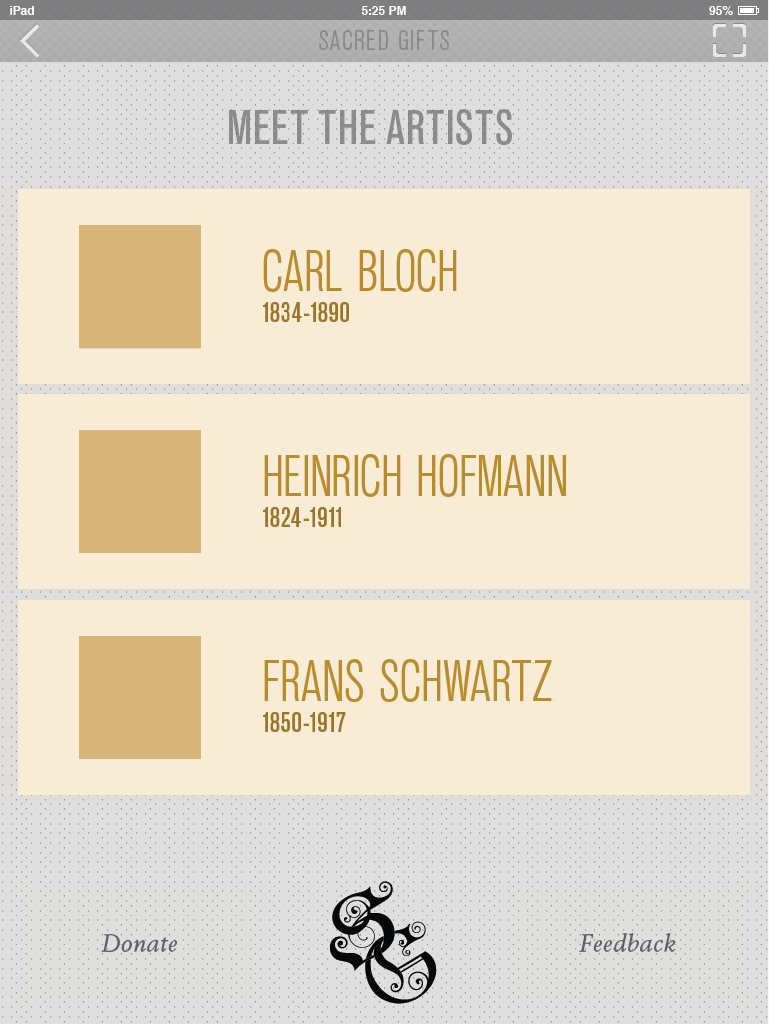
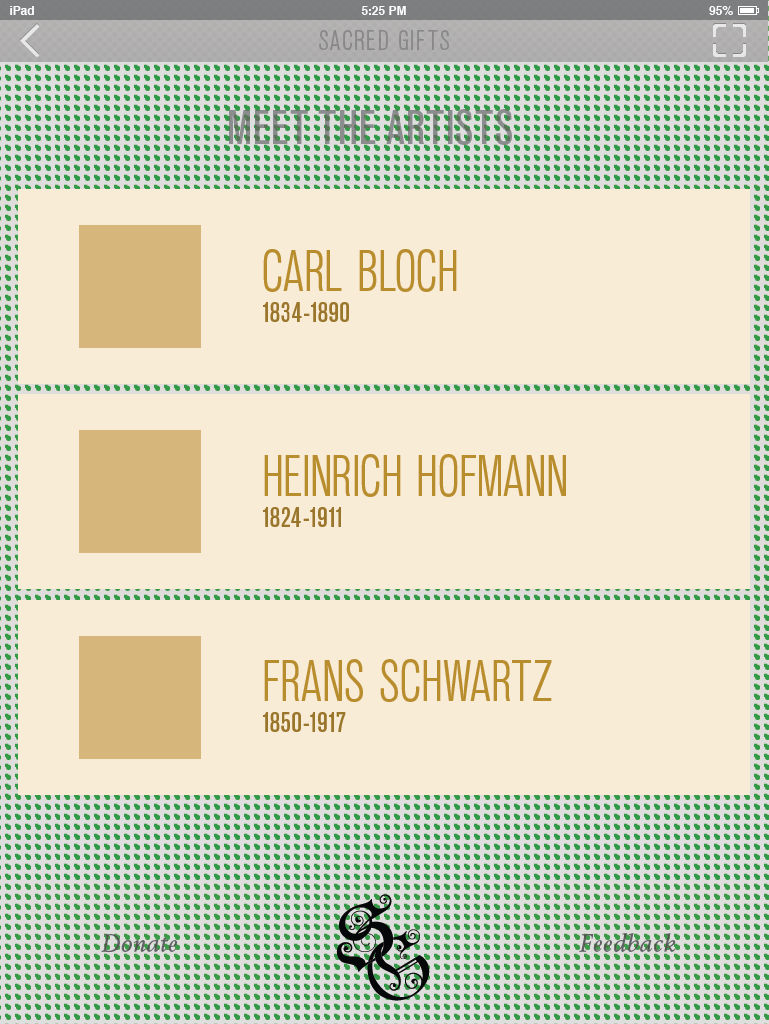
Replaced some navigational MOCKUPS.

diff --git a/SacredGifts/SGViewController.m b/SacredGifts/SGViewController.m
@@ -19,28 +19,9 @@ const NSString* kPaintingNameChristAndTheRichYoungRulerStr = @"christ_and_the_ri
 - (void)viewDidLoad
 {
     [super viewDidLoad];
-	//[self transitionToPainting:kPaintingNameChristAndTheRichYoungRulerStr];
-}
-
--(void)transitionToPainting: (const NSString*)paintingName
-{
-    UIStoryboard* mainStoryBoard = [UIStoryboard storyboardWithName:@"MainStoryboard_iPad" bundle:nil];
-    _paintingViewController = (SGPaintingViewController*)[mainStoryBoard instantiateViewControllerWithIdentifier:@"painting"];
-    [self addChildViewController:_paintingViewController];
-    [self.view addSubview:_paintingViewController.view];
-    
-    NSString *fullPath = [[NSBundle mainBundle] pathForResource:@"paintingConfig" ofType:@"plist" inDirectory:[NSString stringWithFormat: @"PaintingResources/%@", paintingName]];
-    
-    NSMutableDictionary *config = [NSMutableDictionary dictionaryWithContentsOfFile:fullPath];
-    [config setObject:paintingName forKey:@"paintingName"];
-    
-    [_paintingViewController configWithDictionary:(NSDictionary*)config];
-}
-
-- (void)didReceiveMemoryWarning
-{
-    [super didReceiveMemoryWarning];
-    // Dispose of any resources that can be recreated.
+    [UIView animateWithDuration:0.5 animations:^{
+        self.spalshImgView.alpha = 0;
+    }];
 }
 
 @end

diff --git a/SacredGifts/SGViewController.h b/SacredGifts/SGViewController.h
@@ -13,4 +13,5 @@
 {
     SGPaintingViewController *_paintingViewController;
 }
+@property (weak, nonatomic) IBOutlet UIImageView *spalshImgView;
 @end
